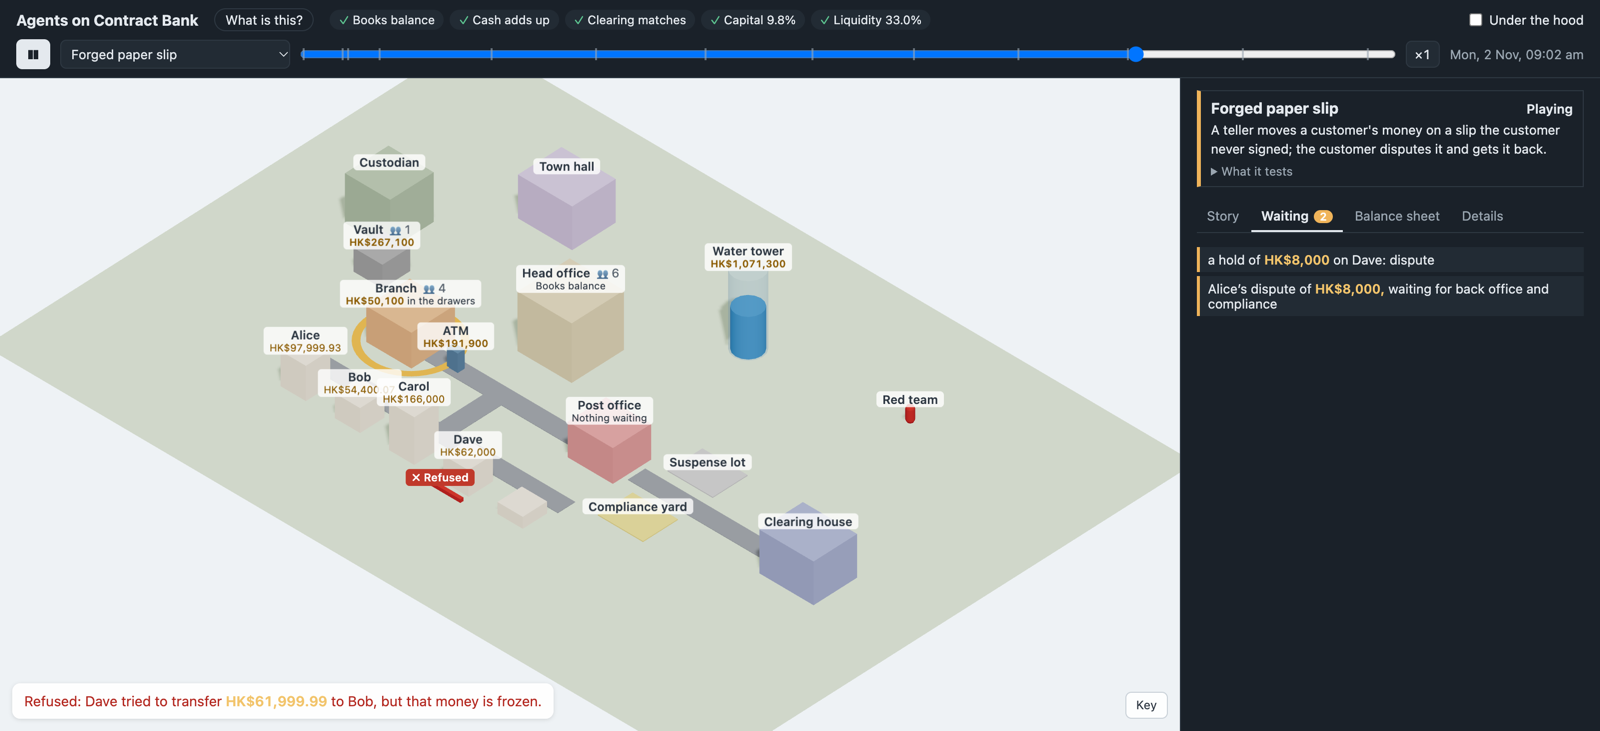
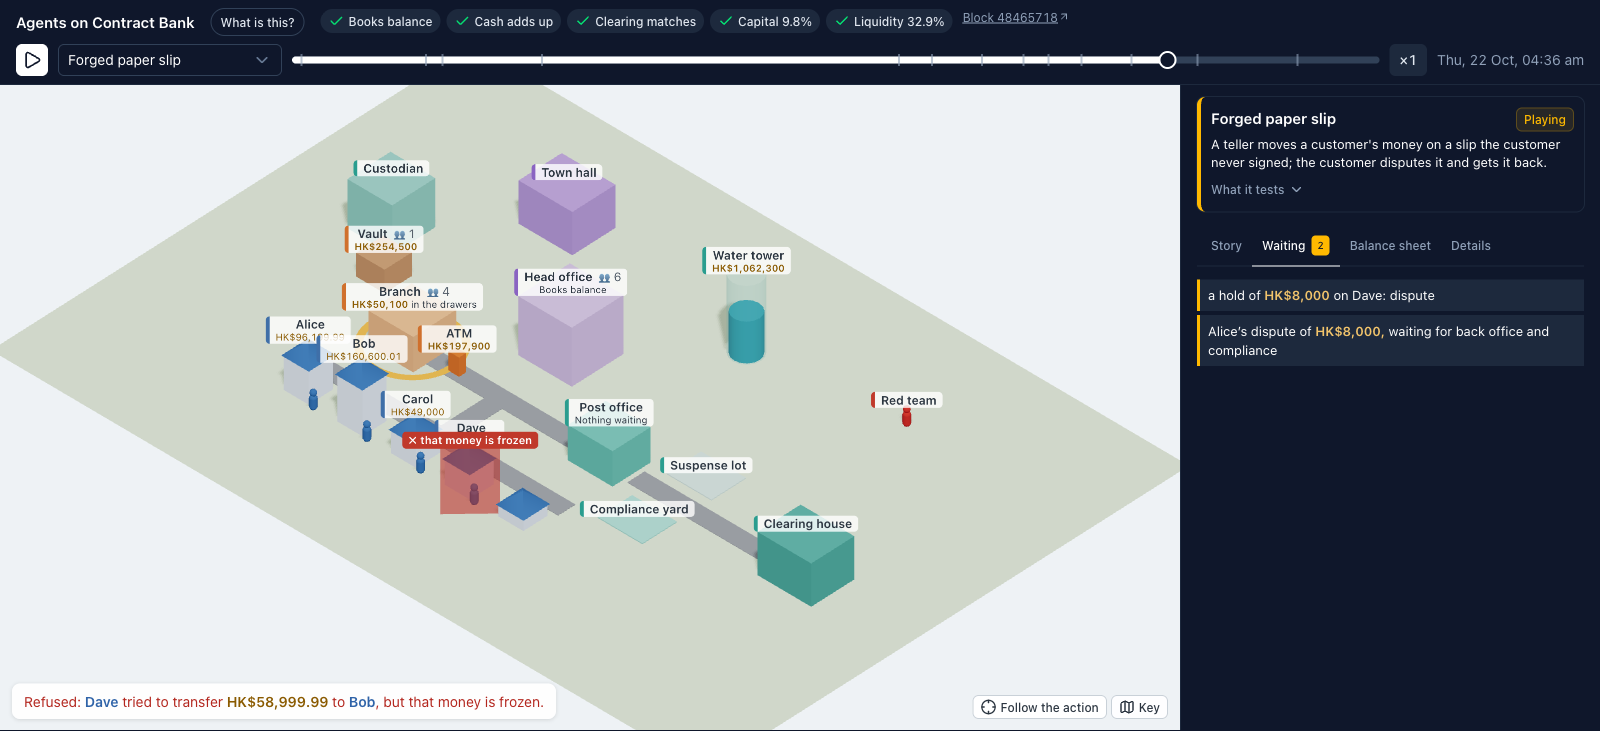
📝 Say the dashboard's panels follow light or dark mode while the bank map stays light, and show the Nuxt UI dashboard in the README

diff --git a/docs/architecture.md b/docs/architecture.md
@@ -515,7 +515,7 @@ The dashboard has two views, matching the two kinds of [scenario](scenarios.md).
 | **Daily** | By default | Invariant strip, story view with its waiting strip, bank map, balance sheet, income statement, and the reserve panel once the stablecoin is in |
 | **Adverse** | While an adverse scenario runs | The same, with a scenario card pinned above the story view, the refusals and incidents it causes highlighted, the panel it concerns brought forward unless the viewer has details open, and the bank map turned to the building it concerns |
 
-It is built in layers, so a newcomer is not met with every figure at once and an expert can still reach all of them. The bank map takes most of the screen, with the latest story line as its caption, and the scenario card says in one plain sentence what is being played. Beside it, the story, the waiting strip, the balance sheet and the details of whatever is selected on the map are tabs, the one an adverse scenario concerns coming forward by itself unless the viewer has details open. The technical detail is one click further: a story line, a check or a place opens in the details tab, and from there to the block explorer. Amounts of money are set apart from the words around them wherever they appear.
+It is built in layers, so a newcomer is not met with every figure at once and an expert can still reach all of them. The bank map takes most of the screen, with the latest story line as its caption, and the scenario card says in one plain sentence what is being played. Beside it, the story, the waiting strip, the balance sheet and the details of whatever is selected on the map are tabs, the one an adverse scenario concerns coming forward by itself unless the viewer has details open. The technical detail is one click further: a story line, a check or a place opens in the details tab, and from there to the block explorer. Amounts of money are set apart from the words around them wherever they appear. The panels and controls are built from Nuxt UI and follow the viewer's light or dark mode; the bank map and its labels stay light.
 
 - **Invariant strip.** Across the top of both views, the design's headline claims as of the latest block: the books balance; stablecoin outstanding is within the confirmed reserve. Each check appears with the milestone that brings it, and opens to say why it holds, the figures behind it, the building that keeps it and the contracts it is read from. The block it is read at links to the block explorer.
 - **Story view.** One plain sentence per event, including refusals and the reason. See [story lines](#story-lines).
